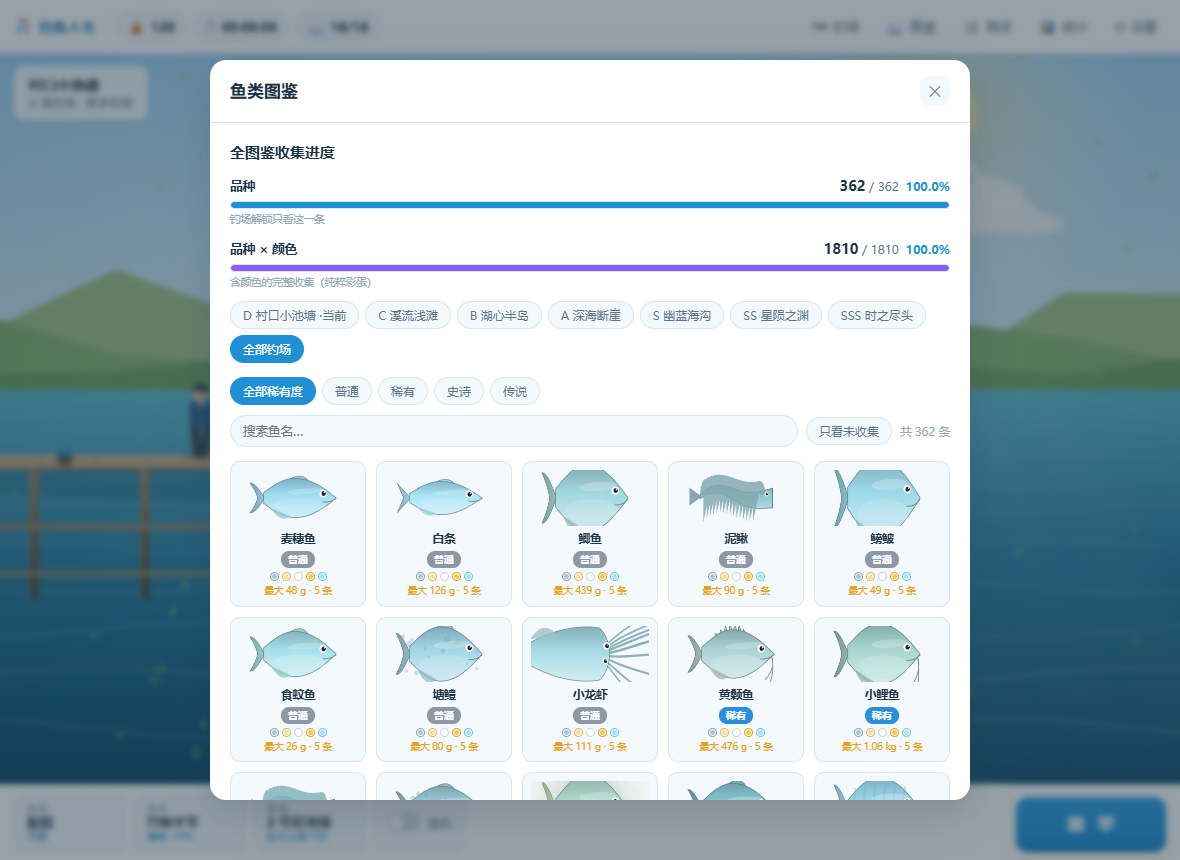
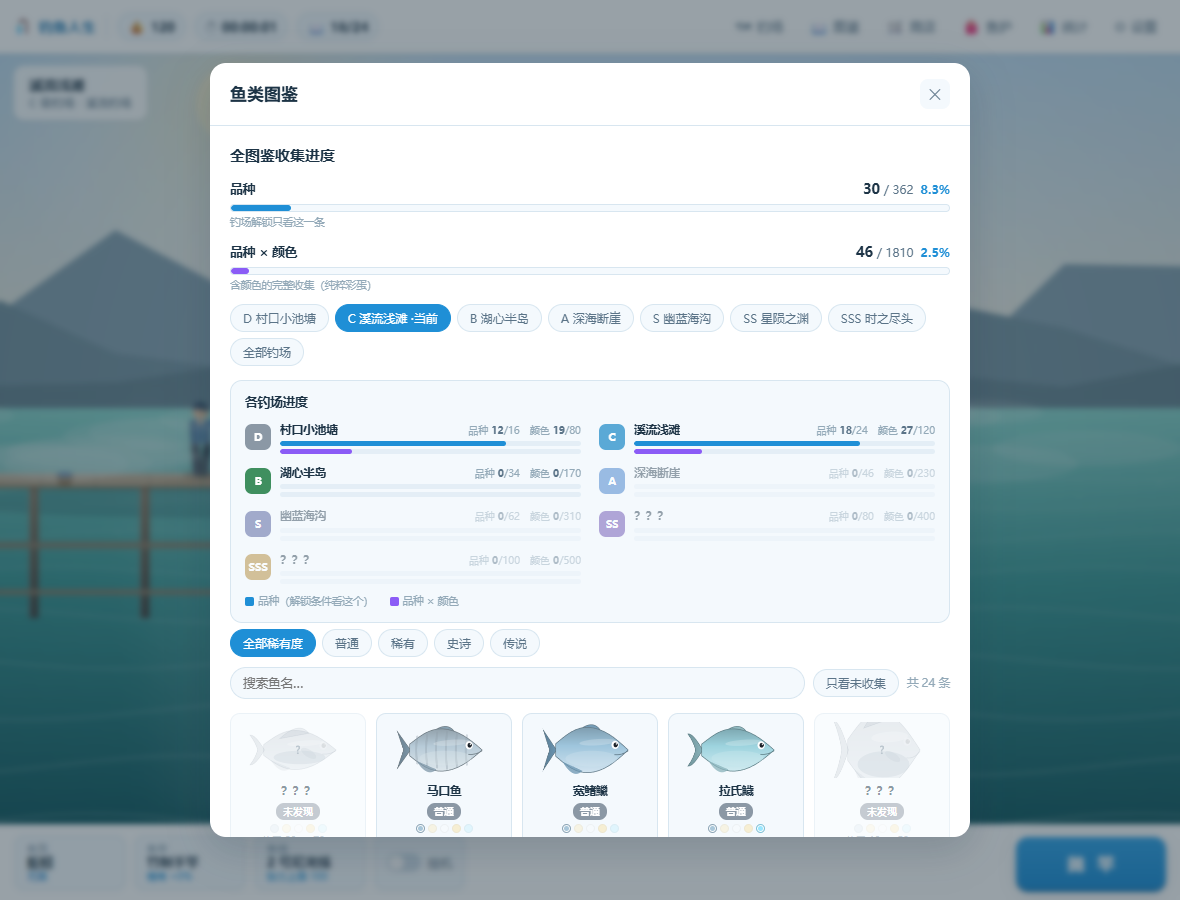
feat: 图鉴补「各钓场进度」+ 画风确定用 flat
图鉴
- 顶部保留两条全局总进度（品种 362 / 品种×颜色 1810）
- 新增「各钓场进度」区块：7 个钓场各一行，每行两条细条
  （蓝=品种，即解锁条件；紫=品种×颜色），未解锁的钓场置灰，隐藏钓场显示 ???
- state 新增 fieldColorProgress(fid)，按钓场统计「品种×颜色」进度

画风
- 明确 flat（扁平卡通）为选定风格 —— 本来就是 fishart.js 的默认值，
  游戏侧从未暴露切换入口，这次只是把注释与文档口径改对
- 其余 5 套（bold/water/real/neon/pixel）保留为开发期备选，方便后期再改

diff --git a/src/ui/panels.js b/src/ui/panels.js
@@ -193,6 +193,27 @@ G.Panels = (function () {
     return v.toExponential(2) + '%';
   }
 
+  /* 图鉴里每个钓场一行的双进度（品种 / 品种×颜色） */
+  var FIELD_RANK_COLOR = { D:'#8b98a5', C:'#5aa9d6', B:'#3f8f5f', A:'#2b6fc4', S:'#3b4a8f', SS:'#5b3fa8', SSS:'#a87a1f' };
+  function fkRow(f) {
+    var p = St.fieldProgress(f.id);
+    var c = St.fieldColorProgress(f.id);
+    var locked = !St.get().unlocked[f.id];
+    var name = (f.hidden && locked) ? '？？？' : f.name;
+    return '<div class="fk-row' + (locked ? ' locked' : '') + '">' +
+      '<span class="fk-rank" style="background:' + (FIELD_RANK_COLOR[f.rank] || '#8b98a5') + '">' + f.rank + '</span>' +
+      '<div class="fk-main">' +
+        '<div class="fk-top">' +
+          '<span class="fk-name">' + name + '</span>' +
+          '<span class="fk-num">品种 <b>' + p.got + '</b>/' + p.total +
+            '　颜色 <b>' + c.got + '</b>/' + c.total + '</span>' +
+        '</div>' +
+        '<div class="fk-bar"><i style="width:' + (p.pct * 100).toFixed(1) + '%;background:#1f8fd6"></i></div>' +
+        '<div class="fk-bar"><i style="width:' + (c.pct * 100).toFixed(1) + '%;background:#8b5cf6"></i></div>' +
+      '</div>' +
+    '</div>';
+  }
+
   /* 图鉴顶部的一条进度条（品种 / 品种×颜色 各一条） */
   function bkBar(label, note, got, total, color) {
     var pct = total ? got / total : 0;
@@ -404,6 +425,17 @@ G.Panels = (function () {
 
       head.appendChild(filters);
       root.appendChild(head);
+
+      /* 各钓场各自的图鉴比例（上面两条是全局总比例） */
+      var fk = U.el('div', 'field-progress');
+      fk.innerHTML = '<div class="fk-title">各钓场进度</div>' +
+        '<div class="fk-grid">' + G.FIELDS.map(fkRow).join('') + '</div>' +
+        '<div class="fk-legend">' +
+          '<span><i style="background:#1f8fd6"></i>品种（解锁条件看这个）</span>' +
+          '<span><i style="background:#8b5cf6"></i>品种 × 颜色</span>' +
+        '</div>';
+      root.appendChild(fk);
+
       root.appendChild(rarRow);
 
       /* ---- 搜索 + 只看未收集 ---- */

diff --git a/assets/css/style.css b/assets/css/style.css
@@ -625,6 +625,29 @@ input[type=range]{ width:130px; accent-color:var(--c-primary); }
 .bk-bar > i{ display:block; height:100%; border-radius:4px; transition:width .25s; }
 .bk-bar-note{ font-size:10.5px; color:var(--c-text-3); margin-top:3px; }
 
+/* -------- 图鉴 · 各钓场进度 -------- */
+.field-progress{
+  margin-top:14px; padding:12px 14px; border-radius:12px;
+  border:1px solid var(--c-line); background:var(--c-panel-2);
+}
+.fk-title{ font-size:12.5px; font-weight:700; color:var(--c-text); margin-bottom:9px; }
+.fk-grid{ display:grid; grid-template-columns:repeat(auto-fill,minmax(250px,1fr)); gap:10px 18px; }
+.fk-row{ display:flex; align-items:center; gap:9px; }
+.fk-row.locked{ opacity:.45; }
+.fk-rank{
+  flex:0 0 auto; width:26px; height:26px; line-height:26px; text-align:center;
+  border-radius:7px; color:#fff; font-weight:800; font-size:10.5px;
+}
+.fk-main{ flex:1 1 auto; min-width:0; }
+.fk-top{ display:flex; align-items:baseline; justify-content:space-between; gap:8px; }
+.fk-name{ font-size:11.5px; font-weight:600; color:var(--c-text); white-space:nowrap; overflow:hidden; text-overflow:ellipsis; }
+.fk-num{ font-size:10px; color:var(--c-text-3); white-space:nowrap; font-variant-numeric:tabular-nums; }
+.fk-num b{ color:var(--c-text-2); }
+.fk-bar{ height:5px; border-radius:3px; background:#e4eef6; overflow:hidden; margin-top:3px; }
+.fk-bar > i{ display:block; height:100%; border-radius:3px; transition:width .25s; }
+.fk-legend{ display:flex; gap:16px; flex-wrap:wrap; margin-top:10px; font-size:10.5px; color:var(--c-text-3); }
+.fk-legend i{ display:inline-block; width:9px; height:9px; border-radius:2px; margin-right:4px; vertical-align:-1px; }
+
 /* -------- 图鉴 · 搜索与筛选 -------- */
 .book-tools{ display:flex; align-items:center; gap:8px; margin-top:10px; flex-wrap:wrap; }
 .bk-search{

diff --git a/src/core/state.js b/src/core/state.js
@@ -485,6 +485,21 @@ G.State = (function () {
     return { got: got, total: _colorTotal, pct: _colorTotal ? got / _colorTotal : 0 };
   }
 
+  /* 单个钓场的「品种 × 颜色」收集进度（图鉴要按钓场分别展示） */
+  function fieldColorProgress(fid) {
+    var list = G.FISH_BY_FIELD[fid] || [];
+    var total = list.length * CFG.colorMorphs.length;
+    var got = 0;
+    for (var i = 0; i < list.length; i++) {
+      var e = S.book[list[i].id];
+      if (!e || !e.colors) continue;
+      for (var c = 0; c < CFG.colorMorphs.length; c++) {
+        if (e.colors[CFG.colorMorphs[c].key]) got++;
+      }
+    }
+    return { got: got, total: total, pct: total ? got / total : 0 };
+  }
+
   /* ---------------- 各钓场图鉴进度统计 ---------------- */
   function globalProgress() {
     var got = 0;
@@ -511,6 +526,7 @@ G.State = (function () {
     buyBait: buyBait, buyRod: buyRod, buyLine: buyLine, buyDecor: buyDecor,
     selectBait: selectBait, selectRod: selectRod, selectLine: selectLine,
     setIdle: setIdle, globalProgress: globalProgress, colorProgress: colorProgress,
+    fieldColorProgress: fieldColorProgress,
     needCount: needCount,
   };
 })();

diff --git a/src/render/fishart.js b/src/render/fishart.js
@@ -20,8 +20,10 @@ G.FishArt = (function () {
   /* =========================================================
      风格层
      =========================================================
-     同一套几何形状，通过下面这组参数就能渲染出完全不同的画风。
-     切换风格： G.FishArt.setStyle('bold')
+     ✅ **已选定：flat（扁平卡通，本文件的默认值）** —— 玩家侧不会暴露切换。
+     其余 5 套（bold / water / real / neon / pixel）是开发期做横向对比用的备选方案，
+     留着方便后期再改；真要收口时把没用的从 STYLES 里删掉即可。
+     对比出图： tools/style-preview.html → docs/style-preview/
      ========================================================= */
   var STYLES = {
     /* 扁平卡通：当前的默认风格，柔渐变 + 细描边 */
